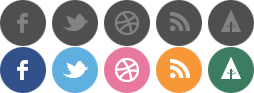
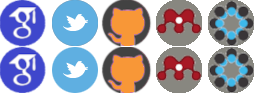
bug

diff --git a/index.html b/index.html
@@ -246,8 +246,20 @@ Recentelly, I have inteselly worked on bioinformatic analysis, mainly on protein
 <div class="footer-container"><!-- Begin Footer -->
     	<div class="container">
         	<div class="row footer-row">
-                	<div class="span3 footer-col">
+                	<div class="span2 footer-col">
 <a href="https://twitter.com/fabiorjvieira" class="social-icon twitter"></a>
+                	</div>
+                	<div class="span2 footer-col">
+<a href="https://scholar.google.com/citations?user=Uu8SCUUAAAAJ&hl=en&oi=ao" class="social-icon facebook"></a>
+                	</div>
+                	<div class="span2 footer-col">
+<a href="https://github.com/fabiorjvieira" class="social-icon dribble"></a>
+                	</div>
+                	<div class="span2 footer-col">
+<a href="https://www.mendeley.com/profiles/fabio-vieira6/" class="social-icon rss"></a>
+                	</div>
+                	<div class="span2 footer-col">
+<a href="https://osf.io/pyut5/" class="social-icon forrst"></a>
                 	</div>
               	</div>
         </div>
